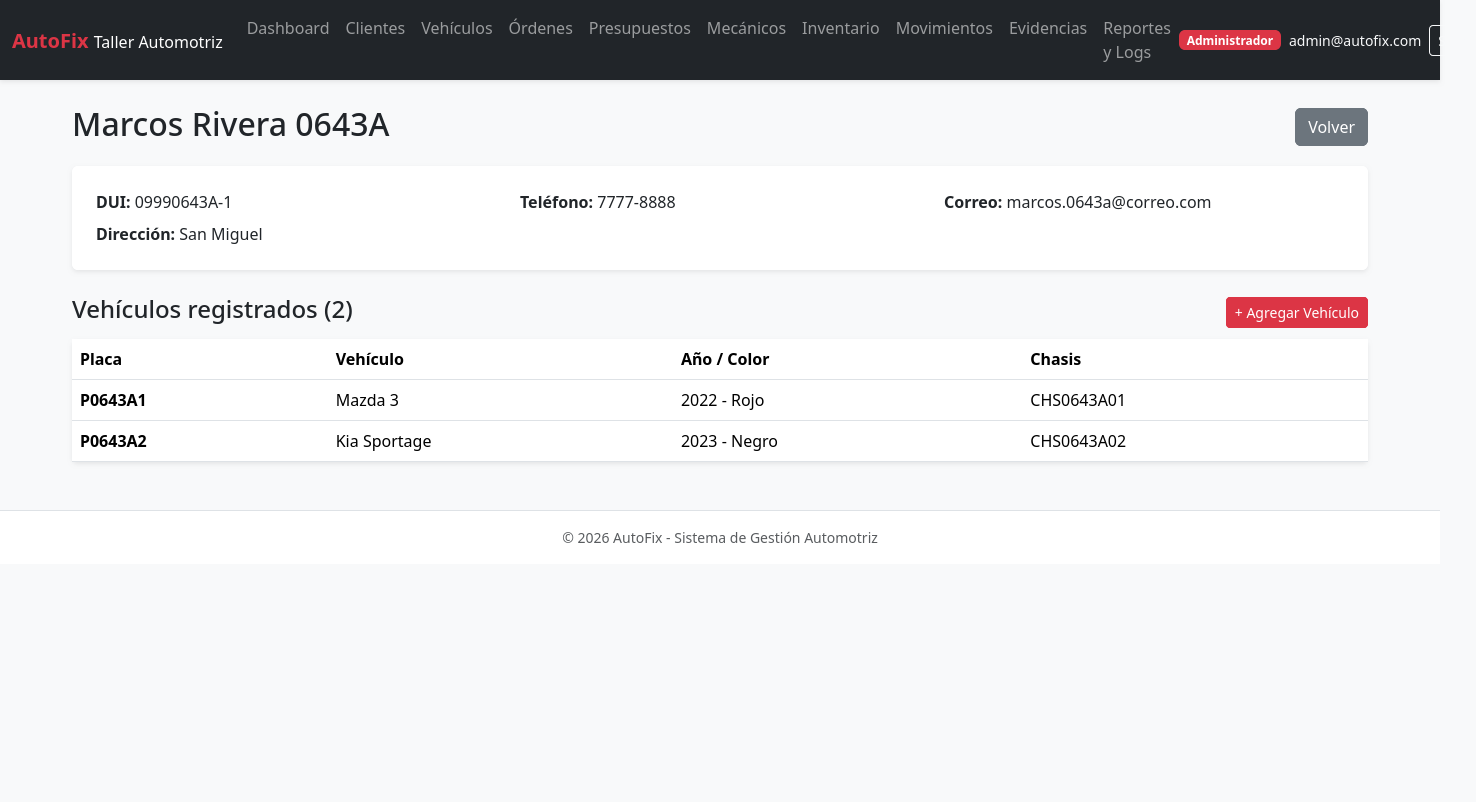
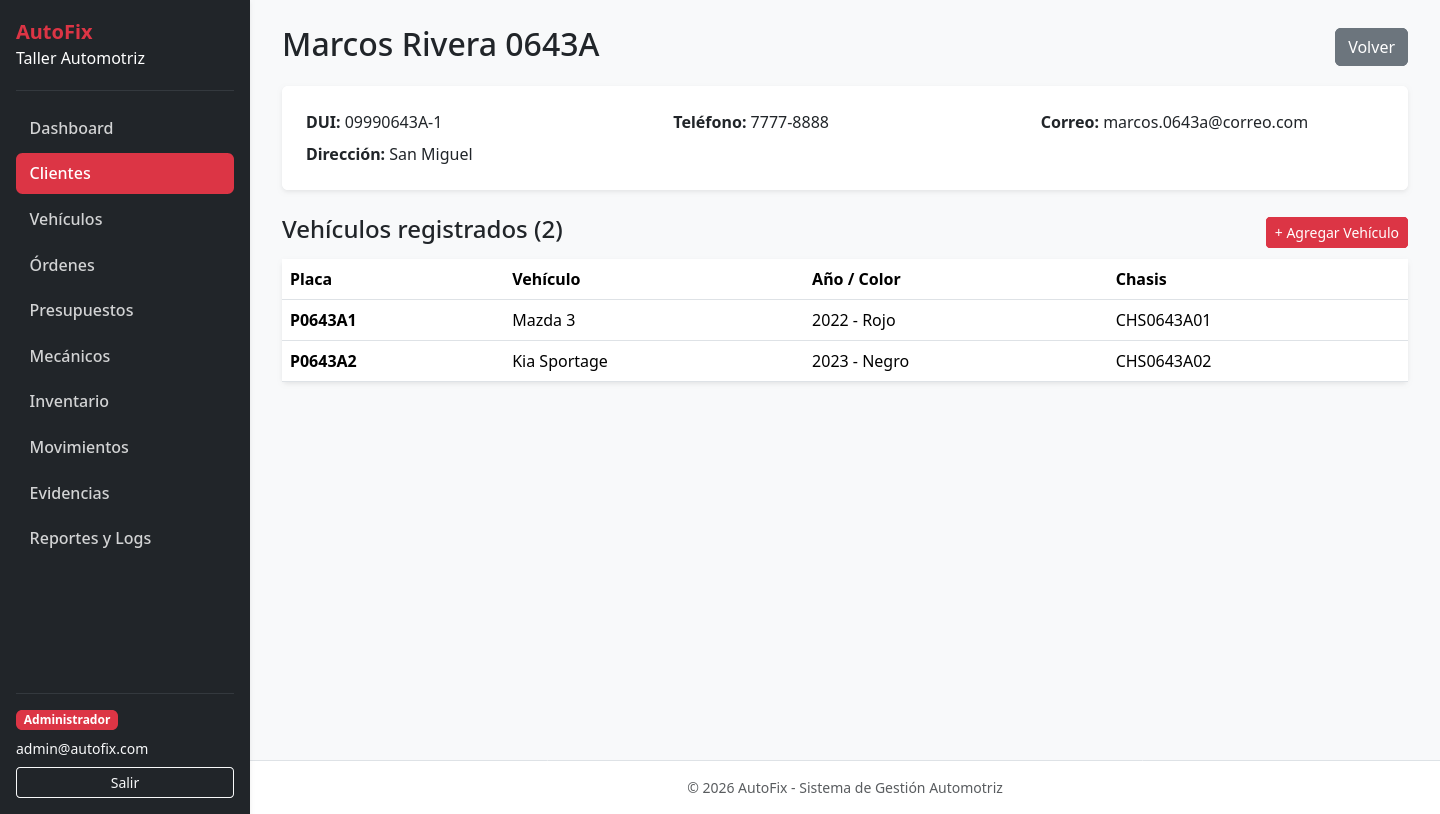
feat(mvc): reemplazar navbar por sidebar lateral adaptable y actualizar capturas

diff --git a/AutoFix.Mvc/wwwroot/css/site.css b/AutoFix.Mvc/wwwroot/css/site.css
@@ -8,17 +8,44 @@ html {
   }
 }
 
+html, body {
+  min-height: 100%;
+}
+
 .btn:focus, .btn:active:focus, .btn-link.nav-link:focus, .form-control:focus, .form-check-input:focus {
   box-shadow: 0 0 0 0.1rem white, 0 0 0 0.25rem #258cfb;
 }
 
-html {
-  position: relative;
-  min-height: 100%;
+.autofix-sidebar {
+  width: 250px;
+  min-width: 250px;
 }
 
-body {
-  margin-bottom: 60px;
+@media (min-width: 992px) {
+  .autofix-sidebar {
+    position: sticky;
+    top: 0;
+    height: 100vh;
+    overflow-y: auto;
+  }
+}
+
+.autofix-sidebar .nav-link {
+  color: rgba(255, 255, 255, 0.8);
+  border-radius: 0.4rem;
+  padding: 0.55rem 0.85rem;
+  font-weight: 500;
+  transition: background-color 0.15s ease, color 0.15s ease;
+}
+
+.autofix-sidebar .nav-link:hover {
+  color: #ffffff;
+  background-color: rgba(255, 255, 255, 0.08);
+}
+
+.autofix-sidebar .nav-link.active {
+  color: #ffffff;
+  background-color: #dc3545;
 }
 
 .form-floating > .form-control-plaintext::placeholder, .form-floating > .form-control::placeholder {
